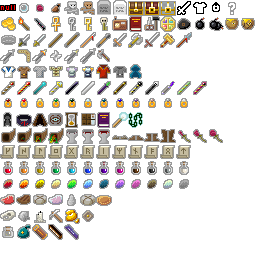
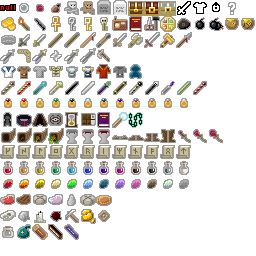
v0.3.2: fully implemented elemental embers quest

Changed region(s): [[0.1875, 0.8125, 0.4375, 0.875]]

diff --git a/src/com/shatteredpixel/shatteredpixeldungeon/sprites/NewbornElementalSprite.java b/src/com/shatteredpixel/shatteredpixeldungeon/sprites/NewbornElementalSprite.java
@@ -1,0 +1,72 @@
+/*
+ * Pixel Dungeon
+ * Copyright (C) 2012-2015  Oleg Dolya
+ *
+ * Shattered Pixel Dungeon
+ * Copyright (C) 2014-2015 Evan Debenham
+ *
+ * This program is free software: you can redistribute it and/or modify
+ * it under the terms of the GNU General Public License as published by
+ * the Free Software Foundation, either version 3 of the License, or
+ * (at your option) any later version.
+ *
+ * This program is distributed in the hope that it will be useful,
+ * but WITHOUT ANY WARRANTY; without even the implied warranty of
+ * MERCHANTABILITY or FITNESS FOR A PARTICULAR PURPOSE.  See the
+ * GNU General Public License for more details.
+ *
+ * You should have received a copy of the GNU General Public License
+ * along with this program.  If not, see <http://www.gnu.org/licenses/>
+ */
+package com.shatteredpixel.shatteredpixeldungeon.sprites;
+
+
+import com.shatteredpixel.shatteredpixeldungeon.Assets;
+import com.shatteredpixel.shatteredpixeldungeon.actors.Char;
+import com.watabou.noosa.MovieClip;
+import com.watabou.noosa.TextureFilm;
+
+public class NewbornElementalSprite extends MobSprite{
+
+	public NewbornElementalSprite() {
+		super();
+
+		texture( Assets.ELEMENTAL );
+
+		int ofs = 22;
+
+		TextureFilm frames = new TextureFilm( texture, 12, 14 );
+
+		idle = new MovieClip.Animation( 10, true );
+		idle.frames( frames, ofs+0, ofs+1, ofs+2 );
+
+		run = new MovieClip.Animation( 12, true );
+		run.frames( frames, ofs+0, ofs+1, ofs+3 );
+
+		attack = new MovieClip.Animation( 15, false );
+		attack.frames( frames, ofs+4, ofs+5, ofs+6 );
+
+		die = new MovieClip.Animation( 15, false );
+		die.frames( frames, ofs+7, ofs+8, ofs+9, ofs+10, ofs+11, ofs+12, ofs+13, ofs+12 );
+
+		play( idle );
+	}
+
+	@Override
+	public void link( Char ch ) {
+		super.link( ch );
+		add( CharSprite.State.BURNING );
+	}
+
+	@Override
+	public void die() {
+		super.die();
+		remove( CharSprite.State.BURNING );
+	}
+
+	@Override
+	public int blood() {
+		return 0xFFFF7D13;
+	}
+
+}

diff --git a/src/com/shatteredpixel/shatteredpixeldungeon/items/quest/Embers.java b/src/com/shatteredpixel/shatteredpixeldungeon/items/quest/Embers.java
@@ -18,27 +18,39 @@
  * You should have received a copy of the GNU General Public License
  * along with this program.  If not, see <http://www.gnu.org/licenses/>
  */
-package com.shatteredpixel.shatteredpixeldungeon.levels.painters;
+package com.shatteredpixel.shatteredpixeldungeon.items.quest;
 
-import com.shatteredpixel.shatteredpixeldungeon.levels.Level;
-import com.shatteredpixel.shatteredpixeldungeon.levels.Room;
-import com.shatteredpixel.shatteredpixeldungeon.levels.Terrain;
+import com.shatteredpixel.shatteredpixeldungeon.items.Item;
+import com.shatteredpixel.shatteredpixeldungeon.sprites.ItemSprite;
+import com.shatteredpixel.shatteredpixeldungeon.sprites.ItemSpriteSheet;
 
-public class EntrancePainter extends Painter {
+public class Embers extends Item {
 
-	public static void paint( Level level, Room room ) {
-		
-		fill( level, room, Terrain.WALL );
-		fill( level, room, 1, Terrain.EMPTY );
-		
-		for (Room.Door door : room.connected.values()) {
-			door.set( Room.Door.Type.REGULAR );
-		}
+	{
+		name = "elemental embers";
+		image = ItemSpriteSheet.EMBER;
 
-		do {
-			level.entrance = room.random(1);
-		} while (level.findMob(level.entrance) != null);
-		set( level, level.entrance, Terrain.ENTRANCE );
+		unique = true;
 	}
-	
+
+	@Override
+	public boolean isUpgradable() {
+		return false;
+	}
+
+	@Override
+	public boolean isIdentified() {
+		return true;
+	}
+
+	@Override
+	public String info() {
+		return
+				"ember"; //TODO
+	}
+
+	@Override
+	public ItemSprite.Glowing glowing() {
+		return new ItemSprite.Glowing(0x660000, 3f);
+	}
 }

diff --git a/src/com/shatteredpixel/shatteredpixeldungeon/items/quest/CeremonialCandle.java b/src/com/shatteredpixel/shatteredpixeldungeon/items/quest/CeremonialCandle.java
@@ -20,14 +20,18 @@
  */
 package com.shatteredpixel.shatteredpixeldungeon.items.quest;
 
+import com.shatteredpixel.shatteredpixeldungeon.Assets;
 import com.shatteredpixel.shatteredpixeldungeon.Dungeon;
 import com.shatteredpixel.shatteredpixeldungeon.actors.hero.Hero;
 import com.shatteredpixel.shatteredpixeldungeon.actors.mobs.NewbornElemental;
+import com.shatteredpixel.shatteredpixeldungeon.effects.CellEmitter;
+import com.shatteredpixel.shatteredpixeldungeon.effects.particles.ElmoParticle;
 import com.shatteredpixel.shatteredpixeldungeon.items.Heap;
 import com.shatteredpixel.shatteredpixeldungeon.items.Item;
 import com.shatteredpixel.shatteredpixeldungeon.levels.Level;
 import com.shatteredpixel.shatteredpixeldungeon.scenes.GameScene;
 import com.shatteredpixel.shatteredpixeldungeon.sprites.ItemSpriteSheet;
+import com.watabou.noosa.audio.Sample;
 
 
 public class CeremonialCandle extends Item {
@@ -40,6 +44,7 @@ public class CeremonialCandle extends Item {
 		image = ItemSpriteSheet.CANDLE;
 
 		unique = true;
+		stackable = true;
 	}
 
 	@Override
@@ -90,8 +95,10 @@ public class CeremonialCandle extends Item {
 				elemental.state = elemental.HUNTING;
 				GameScene.add(elemental, 1);
 
-				//TODO visuals
-
+				for (int i : Level.NEIGHBOURS9){
+					CellEmitter.get(ritualPos+i).burst(ElmoParticle.FACTORY, 10);
+				}
+				Sample.INSTANCE.play(Assets.SND_BURNING);
 			}
 		}
 

diff --git a/src/com/shatteredpixel/shatteredpixeldungeon/actors/mobs/npcs/Wandmaker.java b/src/com/shatteredpixel/shatteredpixeldungeon/actors/mobs/npcs/Wandmaker.java
@@ -27,6 +27,7 @@ import com.shatteredpixel.shatteredpixeldungeon.Challenges;
 import com.shatteredpixel.shatteredpixeldungeon.actors.hero.Hero;
 import com.shatteredpixel.shatteredpixeldungeon.items.Generator;
 import com.shatteredpixel.shatteredpixeldungeon.items.quest.CeremonialCandle;
+import com.shatteredpixel.shatteredpixeldungeon.items.quest.Embers;
 import com.watabou.noosa.audio.Sample;
 import com.shatteredpixel.shatteredpixeldungeon.Assets;
 import com.shatteredpixel.shatteredpixeldungeon.Dungeon;
@@ -160,7 +161,7 @@ public class Wandmaker extends NPC {
 					item = Dungeon.hero.belongings.getItem(CorpseDust.class);
 					break;
 				case 2:
-					item = Dungeon.hero.belongings.getItem(CorpseDust.class); //TODO: elemental embers
+					item = Dungeon.hero.belongings.getItem(Embers.class);
 					break;
 				case 3:
 					item = Dungeon.hero.belongings.getItem(Rotberry.Seed.class);

diff --git a/src/com/shatteredpixel/shatteredpixeldungeon/actors/mobs/NewbornElemental.java b/src/com/shatteredpixel/shatteredpixeldungeon/actors/mobs/NewbornElemental.java
@@ -23,11 +23,15 @@ package com.shatteredpixel.shatteredpixeldungeon.actors.mobs;
 import com.shatteredpixel.shatteredpixeldungeon.actors.buffs.Buff;
 import com.shatteredpixel.shatteredpixeldungeon.actors.buffs.Chill;
 import com.shatteredpixel.shatteredpixeldungeon.actors.buffs.Frost;
+import com.shatteredpixel.shatteredpixeldungeon.items.quest.Embers;
+import com.shatteredpixel.shatteredpixeldungeon.sprites.NewbornElementalSprite;
 
 public class NewbornElemental extends Elemental {
 
 	{
 		name = "newborn fire elemental";
+		spriteClass = NewbornElementalSprite.class;
+
 		HT = 65;
 		HP = HT/2; //32
 
@@ -35,7 +39,7 @@ public class NewbornElemental extends Elemental {
 
 		EXP = 4;
 
-		loot = null; //TODO Elemental embers
+		loot = new Embers();
 		lootChance = 1f;
 	}
 

diff --git a/src/com/shatteredpixel/shatteredpixeldungeon/sprites/ItemSpriteSheet.java b/src/com/shatteredpixel/shatteredpixeldungeon/sprites/ItemSpriteSheet.java
@@ -225,9 +225,10 @@ public class ItemSpriteSheet {
 	public static final int SKULL	= ROW14+0;
 	public static final int DUST	= ROW14+1;
 	public static final int CANDLE	= ROW14+2;
-	public static final int PICKAXE	= ROW14+3;
-	public static final int ORE		= ROW14+4;
-	public static final int TOKEN	= ROW14+5;
+	public static final int EMBER	= ROW14+3;
+	public static final int PICKAXE	= ROW14+4;
+	public static final int ORE		= ROW14+5;
+	public static final int TOKEN	= ROW14+6;
 
 	//Row Fifteen: Containers/Bags
 	public static final int VIAL	    = ROW15+0;

diff --git a/src/com/shatteredpixel/shatteredpixeldungeon/levels/RegularLevel.java b/src/com/shatteredpixel/shatteredpixeldungeon/levels/RegularLevel.java
@@ -171,7 +171,7 @@ public abstract class RegularLevel extends Level {
 	protected void placeSign(){
 		while (true) {
 			int pos = roomEntrance.random();
-			if (pos != entrance && traps.get(pos) == null) {
+			if (pos != entrance && traps.get(pos) == null && findMob(pos) == null) {
 				map[pos] = Terrain.SIGN;
 				break;
 			}
